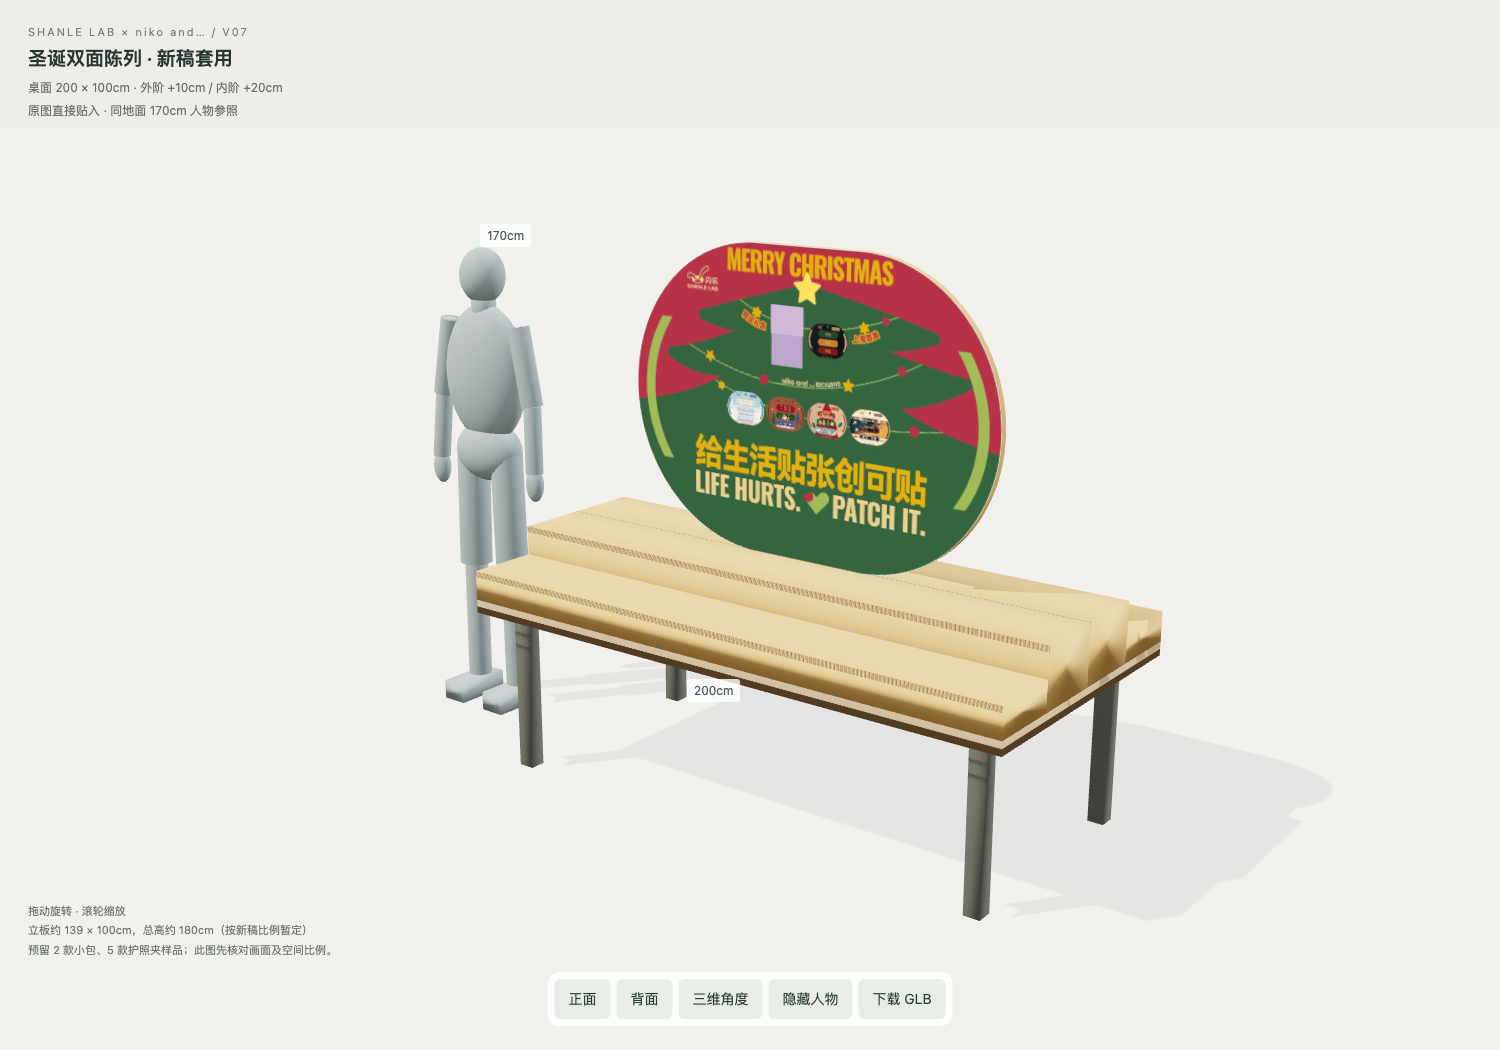
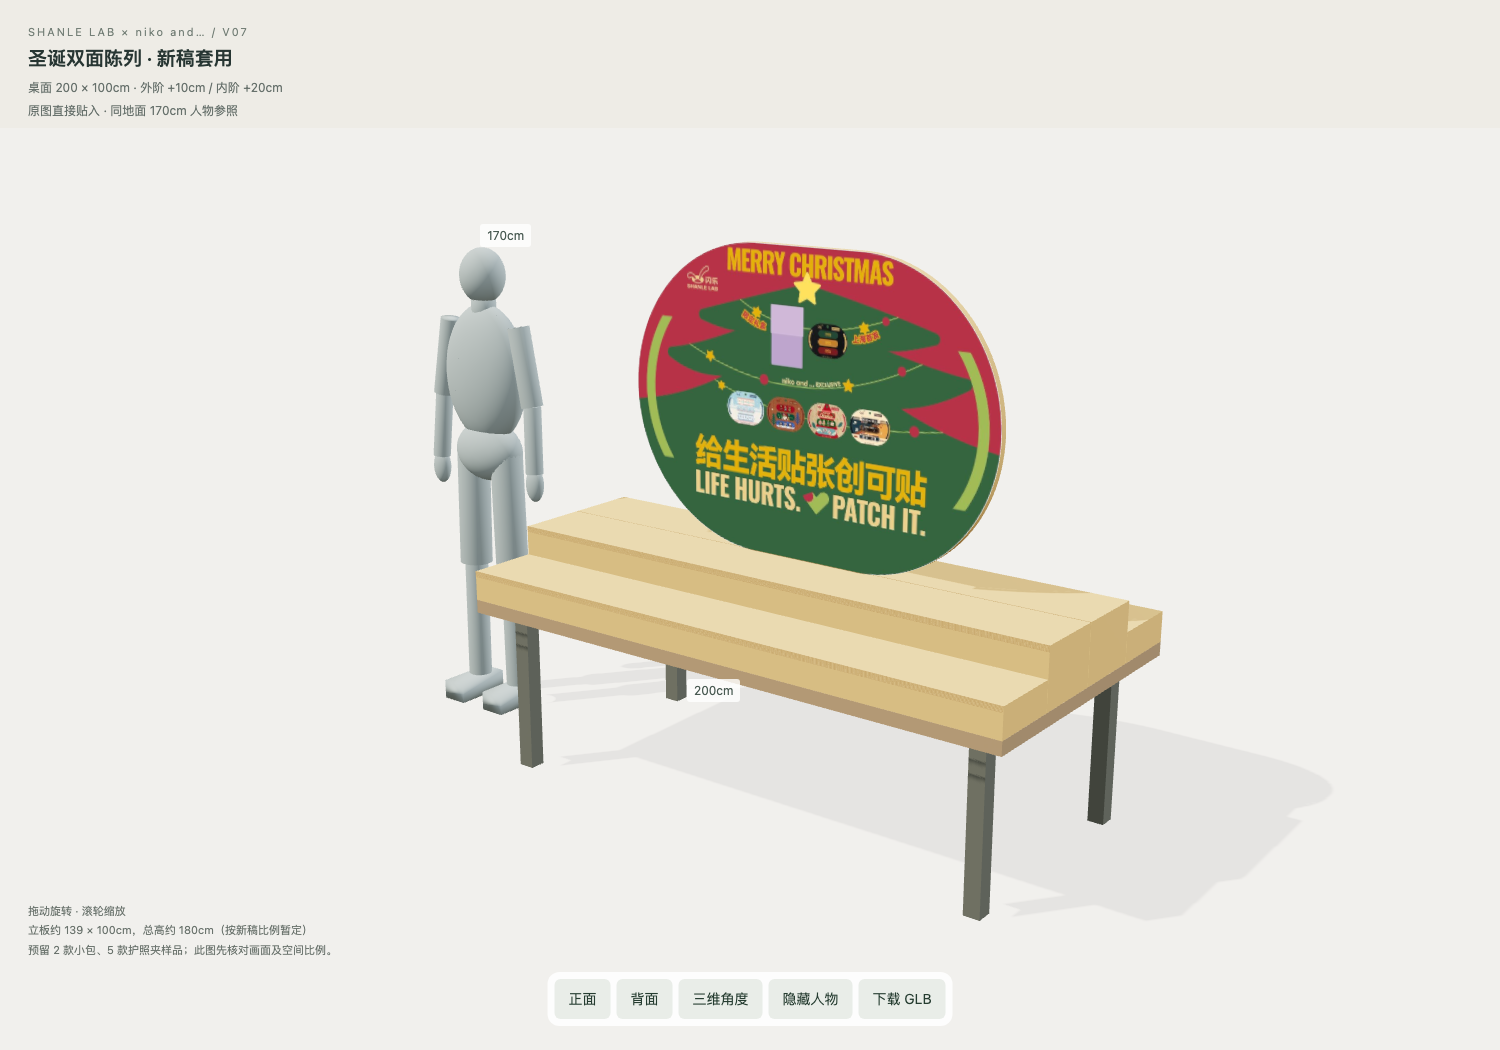
Keep shelf panel edges flat in review lighting

Changed region(s): [[0.3067, 0.4876, 0.7973, 0.7314], [0.644, 0.7924, 0.6747, 0.8838], [0.3373, 0.701, 0.368, 0.7314]]

diff --git a/index.html b/index.html
@@ -12,7 +12,7 @@ const fill=new THREE.DirectionalLight(0xffffff,1.8);fill.position.set(3,3,-5);sc
 const floor=new THREE.Mesh(new THREE.PlaneGeometry(200,200),new THREE.MeshStandardMaterial({color:'#e6e2da',roughness:1}));floor.rotation.x=-Math.PI/2;floor.position.y=-.002;floor.receiveShadow=true;scene.add(floor);
 const controls=new OrbitControls(camera,renderer.domElement);controls.target.set(-.23,.88,0);controls.enableDamping=true;controls.maxPolarAngle=Math.PI/2-.01;controls.minDistance=1.8;controls.maxDistance=12;
 function view(v){const p={front:[-.23,1.35,5.4],back:[-.23,1.4,-5.4],angle:[3.05,2.4,4.3]}[v];camera.position.set(...p);controls.target.set(-.23,.88,0);controls.update();}window.setView=view;view('angle');
-let model;new GLTFLoader().load('model.glb',g=>{model=g.scene;model.traverse(o=>{if(o.isMesh){o.castShadow=true;o.receiveShadow=true;if(o.material.map){o.material=new THREE.MeshBasicMaterial({map:o.material.map,side:o.material.side,toneMapped:false});}else{o.geometry.computeVertexNormals();o.material=new THREE.MeshStandardMaterial({color:o.name.startsWith('human_')?'#879599':o.name.startsWith('table_leg')?'#585c57':o.name.startsWith('table_')?'#8d7960':o.name.startsWith('laminated')?'#a18355':'#bd9b63',roughness:.9,metalness:0});}}});scene.add(model);document.querySelector('#loading').remove();window.ready=true;},undefined,e=>{document.querySelector('#loading').textContent='载入失败：'+e.message;});
+let model;new GLTFLoader().load('model.glb',g=>{model=g.scene;model.traverse(o=>{if(o.isMesh){o.castShadow=true;o.receiveShadow=true;if(o.material.map){o.material=new THREE.MeshBasicMaterial({map:o.material.map,side:o.material.side,toneMapped:false});}else{o.geometry.computeVertexNormals();o.material=new THREE.MeshStandardMaterial({color:o.name.startsWith('human_')?'#879599':o.name.startsWith('table_leg')?'#585c57':o.name.startsWith('table_')?'#8d7960':o.name.startsWith('laminated')?'#a18355':'#bd9b63',roughness:.9,metalness:0,flatShading:!o.name.startsWith('human_')});}}});scene.add(model);document.querySelector('#loading').remove();window.ready=true;},undefined,e=>{document.querySelector('#loading').textContent='载入失败：'+e.message;});
 document.querySelectorAll('[data-view]').forEach(b=>b.onclick=()=>view(b.dataset.view));let visible=true;document.querySelector('#human').onclick=e=>{visible=!visible;model?.traverse(o=>{if(o.name.startsWith('human_'))o.visible=visible;});e.target.textContent=visible?'隐藏人物':'显示人物';document.querySelector('#person').hidden=!visible;};
 function tag(id,p){const v=p.clone().project(camera),e=document.getElementById(id);e.style.left=(v.x*.5+.5)*innerWidth+'px';e.style.top=(-v.y*.5+.5)*innerHeight+'px';}
 function loop(){requestAnimationFrame(loop);controls.update();tag('person',new THREE.Vector3(-1.43,1.78,0));tag('width',new THREE.Vector3(0,.58,.61));renderer.render(scene,camera);}loop();addEventListener('resize',()=>{camera.aspect=innerWidth/innerHeight;camera.updateProjectionMatrix();renderer.setSize(innerWidth,innerHeight);});window.scene=scene;
